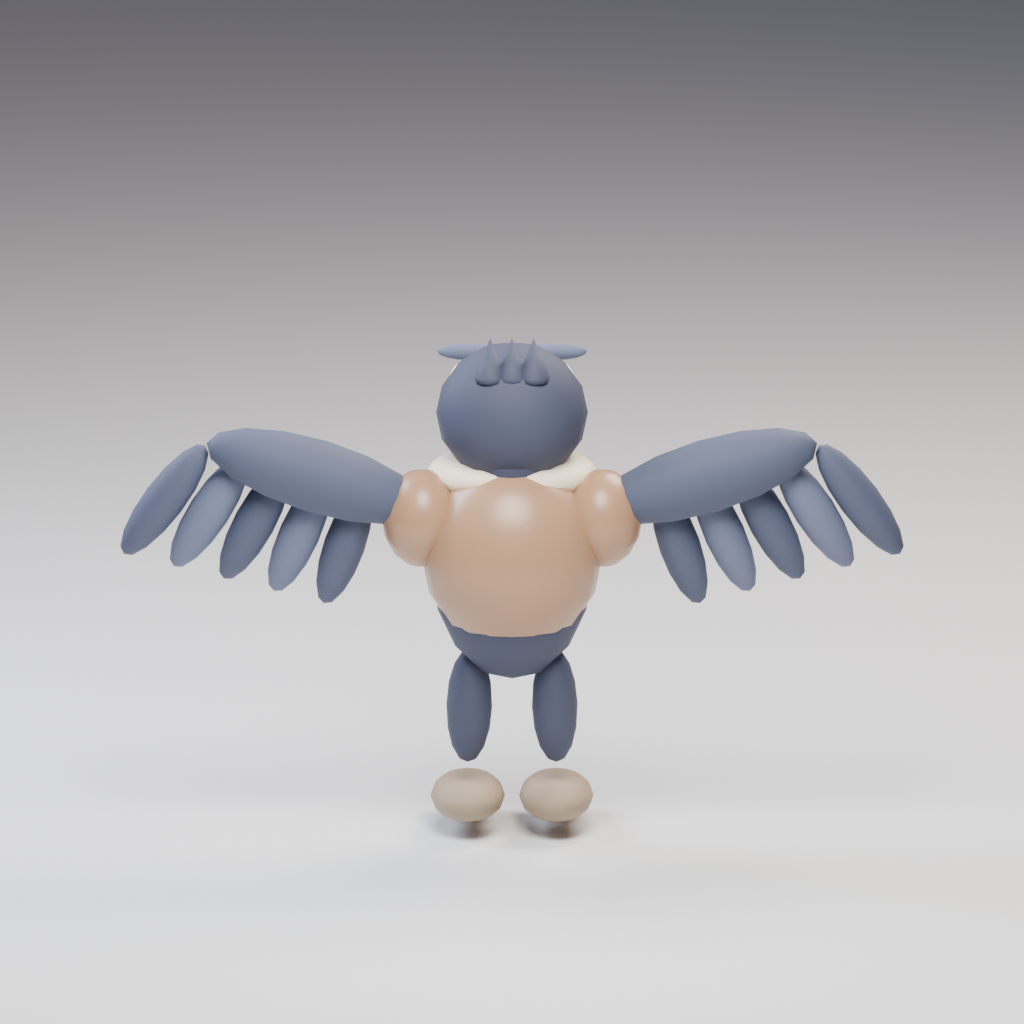
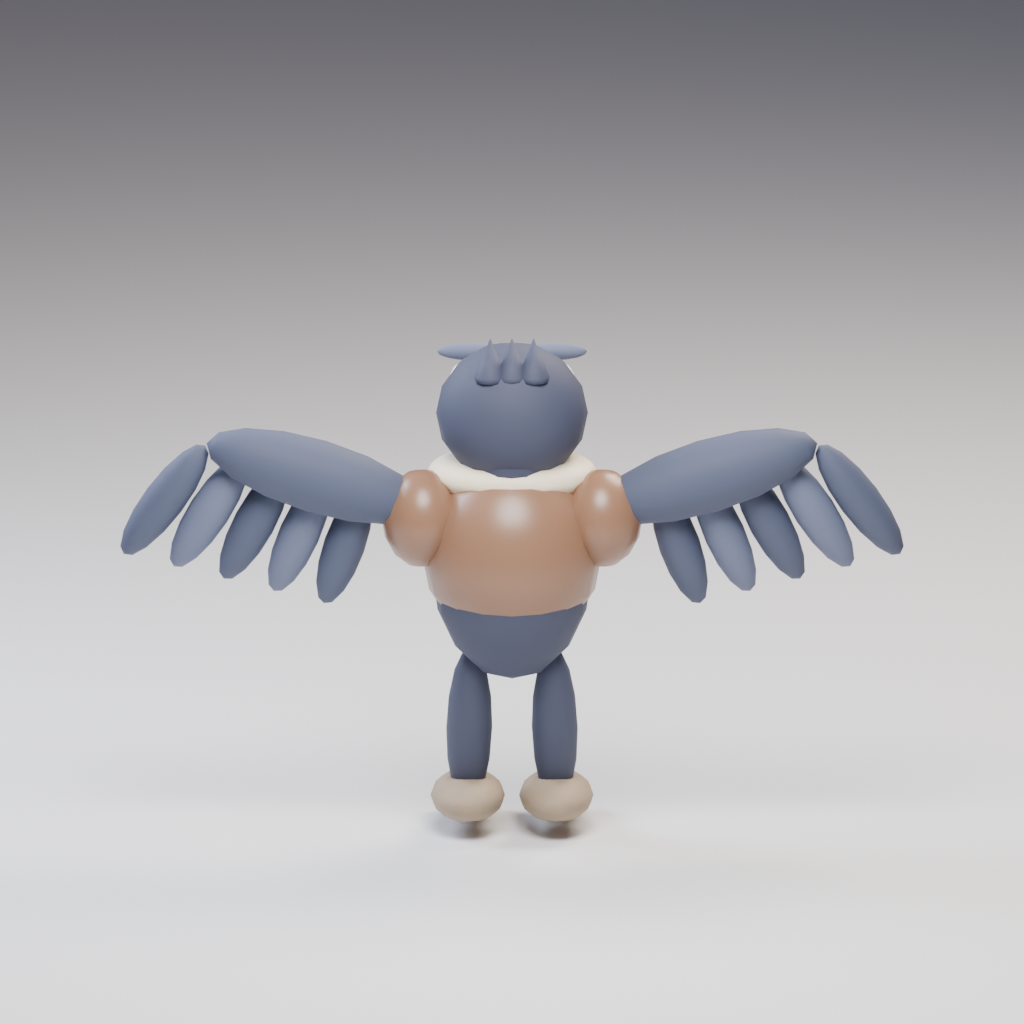
feat: models rendered

Changed region(s): [[0.375, 0.4688, 0.625, 0.5625], [0.4375, 0.7188, 0.5625, 0.7812], [0.4375, 0.5938, 0.5625, 0.625]]

diff --git a/tests/blender/test_editability.py b/tests/blender/test_editability.py
@@ -5,20 +5,24 @@ import bpy
 from scripts.blender import generate
 
 class EditabilityTests(unittest.TestCase):
-    def test_material_and_mesh_changes_survive_save_reopen(self):
+    def test_material_and_mesh_changes_survive_save_reopen_for_each_character(self):
         with TemporaryDirectory() as temp:
             out=Path(temp)
             generate.main(['--output-dir',str(out)])
-            scene=out/'cow.blend'
-            bpy.ops.wm.open_mainfile(filepath=str(scene))
-            obj=bpy.data.objects['Cow.Muzzle']
-            obj.data.vertices[0].co.x+=.1
-            expected_x=float(obj.data.vertices[0].co.x)
-            mat=bpy.data.materials['Cow.Material.Muzzle']
-            self.assertIn('Principled BSDF',mat.node_tree.nodes)
-            mat.node_tree.nodes['Principled BSDF'].inputs['Base Color'].default_value=(.3,.4,.5,1)
-            changed=out/'edited.blend'
-            bpy.ops.wm.save_as_mainfile(filepath=str(changed))
-            bpy.ops.wm.open_mainfile(filepath=str(changed))
-            self.assertAlmostEqual(bpy.data.objects['Cow.Muzzle'].data.vertices[0].co.x,expected_x)
-            self.assertAlmostEqual(bpy.data.materials['Cow.Material.Muzzle'].node_tree.nodes['Principled BSDF'].inputs['Base Color'].default_value[0],.3)
+            for role, part, material in (
+                ('cow','Muzzle','Muzzle'),
+                ('crow','Beak','Beak'),
+            ):
+                prefix=role.title()
+                bpy.ops.wm.open_mainfile(filepath=str(out/f'{role}.blend'))
+                obj=bpy.data.objects[f'{prefix}.{part}']
+                obj.data.vertices[0].co.x+=.1
+                expected_x=float(obj.data.vertices[0].co.x)
+                mat=bpy.data.materials[f'{prefix}.Material.{material}']
+                self.assertIn('Principled BSDF',mat.node_tree.nodes)
+                mat.node_tree.nodes['Principled BSDF'].inputs['Base Color'].default_value=(.3,.4,.5,1)
+                changed=out/f'edited-{role}.blend'
+                bpy.ops.wm.save_as_mainfile(filepath=str(changed))
+                bpy.ops.wm.open_mainfile(filepath=str(changed))
+                self.assertAlmostEqual(bpy.data.objects[f'{prefix}.{part}'].data.vertices[0].co.x,expected_x)
+                self.assertAlmostEqual(bpy.data.materials[f'{prefix}.Material.{material}'].node_tree.nodes['Principled BSDF'].inputs['Base Color'].default_value[0],.3)

diff --git a/scripts/blender/render.py b/scripts/blender/render.py
@@ -7,11 +7,11 @@ sys.path.insert(0, str(Path(__file__).resolve().parents[2]))
 VIEWS = ('front', 'side', 'back', 'three-quarter')
 TARGETS = tuple(f'previews/{role}-{view}.png' for role in ('cow', 'crow') for view in VIEWS) + ('previews/duo-neutral.png', 'previews/duo-neon.png')
 
-def preflight(out, smoke=False, overwrite=False):
+def preflight(out, smoke=False, overwrite=False, only=None):
     out = Path(out)
     if out.exists() and not out.is_dir():
         raise NotADirectoryError(out)
-    targets = ('smoke/duo-neutral.png',) if smoke else TARGETS
+    targets = ('smoke/duo-neutral.png',) if smoke else tuple(t for t in TARGETS if only is None or (only=='duo' and t.startswith('previews/duo-')) or t.startswith(f'previews/{only}-'))
     existing = [str(out/name) for name in targets if (out/name).exists()]
     if existing and not overwrite:
         raise FileExistsError('Existing renders; use --overwrite: ' + ', '.join(existing))
@@ -21,13 +21,18 @@ def main(argv=None):
     parser = argparse.ArgumentParser(description=__doc__)
     parser.add_argument('--output-dir', required=True, type=Path)
     parser.add_argument('--smoke', action='store_true')
+    parser.add_argument('--only', choices=('cow','crow','duo'), help='render one character or the duo')
     parser.add_argument('--overwrite', action='store_true')
     args = parser.parse_args(argv)
     import bpy
     from scripts.blender.generate import require_supported
     require_supported(bpy.app.version)
-    preflight(args.output_dir, args.smoke, args.overwrite)
+    if args.smoke and args.only:
+        parser.error('--smoke and --only cannot be combined')
+    preflight(args.output_dir, args.smoke, args.overwrite, args.only)
     jobs=[('comparison.blend','duo-neutral.png','Camera.Duo','neutral')] if args.smoke else [(f'{role}.blend',f'{role}-{view}.png',f'Camera.{view}','neutral') for role in ('cow','crow') for view in VIEWS]+[('comparison.blend','duo-neutral.png','Camera.Duo','neutral'),('comparison.blend','duo-neon.png','Camera.Duo','neon')]
+    if args.only:
+        jobs=[job for job in jobs if (args.only=='duo' and job[1].startswith('duo-')) or job[1].startswith(args.only+'-')]
     target_dir=args.output_dir/('smoke' if args.smoke else 'previews')
     target_dir.mkdir(parents=True,exist_ok=True)
     current=None

diff --git a/tests/blender/test_assets.py b/tests/blender/test_assets.py
@@ -21,6 +21,11 @@ class CharacterAssetTests(unittest.TestCase):
                 for part in required:
                     self.assertIn(f'{prefix}.{part}',names)
                 self.assertIn(f'Character.{prefix}',bpy.data.collections)
+                root=bpy.data.objects[f'{prefix}.Root']
+                self.assertEqual(tuple(round(float(v),5) for v in root.location),(0.0,0.0,0.0))
+                self.assertEqual(bpy.context.scene.unit_settings.system,'METRIC')
+                height=max((obj.matrix_world @ __import__('mathutils').Vector(corner)).z for obj in bpy.data.collections[f'Character.{prefix}'].objects if obj.type=='MESH' for corner in obj.bound_box)
+                self.assertAlmostEqual(height,2.0 if role=='cow' else 1.6,delta=.30)
                 self.assertTrue(any(m.name.startswith(f'{prefix}.Material.') for m in bpy.data.materials))
                 self.assertTrue(all(m.vertices and all(all(abs(v)<1000 for v in vertex.co) for vertex in m.vertices) for m in bpy.data.meshes if m.users))
                 self.assertTrue(all(o.data.materials for o in bpy.data.objects if o.type=='MESH' and o.name.startswith(prefix+'.')))

diff --git a/tests/blender/test_cli.py b/tests/blender/test_cli.py
@@ -35,3 +35,10 @@ class CommandBoundaryTests(unittest.TestCase):
         with self.assertRaises(SystemExit) as error:
             render.main([])
         self.assertNotEqual(error.exception.code,0)
+
+    def test_duo_only_preflight_ignores_existing_individual_preview(self):
+        with TemporaryDirectory() as temp:
+            out=Path(temp)
+            (out/'previews').mkdir()
+            (out/'previews/cow-front.png').write_bytes(b'keep')
+            render.preflight(out, smoke=False, overwrite=False, only='duo')

diff --git a/specs/003-cow-crow-models/tasks.md b/specs/003-cow-crow-models/tasks.md
@@ -42,7 +42,7 @@
 - [X] T011 [US1] Build Crow in `scripts/blender/characters.py`: smaller wiry body, brown aviator jacket/cream collar, dark feathers, prominent beak, expressive determined eyes, birdlike feet, and partially open full feather wings through shoulder openings; exclude extra back wings and humanoid hands (FR-002–FR-004, FR-008; AC-002).
 - [X] T012 [US1] Implement clean individual-scene assembly and native saving in `scripts/blender/generate.py`, producing `assets/characters/cow-crow/cow.blend` and `assets/characters/cow-crow/crow.blend` with self-contained parts/materials and protected output semantics; keep the command incremental until comparison support arrives in T019 (FR-004, FR-007, FR-008; AC-003).
 - [X] T013 [US1] Make all US1 tests pass through fresh-process reopening and edit persistence, refactor shared geometry/material helpers in `scripts/blender/characters.py` while retaining passing checks, and record green results in `specs/003-cow-crow-models/validation/results.md` (FR-004, FR-008, FR-010).
-- [ ] T014 [US1] Inspect both native scenes against the predefined design checklist, correct shape/shading/intersection issues in `scripts/blender/characters.py`, regenerate affected individual assets, rerun affected checks, and record findings in `specs/003-cow-crow-models/validation/results.md`; defer final owner acceptance to T033 after previews are ready (FR-001–FR-004; AC-001–AC-003).
+- [X] T014 [US1] Inspect both native scenes against the predefined design checklist, correct shape/shading/intersection issues in `scripts/blender/characters.py`, regenerate affected individual assets, rerun affected checks, and record findings in `specs/003-cow-crow-models/validation/results.md`; defer final owner acceptance to T033 after previews are ready (FR-001–FR-004; AC-001–AC-003).
 
 **Checkpoint**: Two editable concept models can be demonstrated independently. This is the suggested first increment, not completion of the full feature.
 
@@ -64,8 +64,8 @@
 - [X] T019 [US2] Extend `scripts/blender/generate.py` to save `assets/characters/cow-crow/comparison.blend` with both models and the presentation objects, and save individual cameras/neutral lighting in both character files; preserve shared character geometry/materials and a visible gap between evaluated bounds (FR-004–FR-008; AC-004–AC-005).
 - [X] T020 [US2] Implement `scripts/blender/render.py` to load the saved files and render eight 1024×1024 individual PNGs and two 1600×1000 duo PNGs at 64 samples, plus the separate 128×128/8-sample `--smoke` path; retain overwrite preflight, avoid rebuilding geometry, and never resave source scenes merely to render (FR-005, FR-006, FR-009).
 - [X] T021 [US2] Run the presentation/render tests and smoke command, verify successful clean process exit and a readable image, and record green/smoke evidence in `specs/003-cow-crow-models/validation/results.md` before launching the full batch (FR-005, FR-006, FR-010).
-- [ ] T022 [US2] Generate the complete three-scene set and ten final previews under `assets/characters/cow-crow/` using the documented commands and 30-minute batch timeout; validate every PNG's dimensions/readability and record output paths and exit statuses in `specs/003-cow-crow-models/validation/results.md` (FR-004–FR-006; AC-004–AC-005).
-- [ ] T023 [US2] Review full-size and approximately 160-pixel previews, fix visual issues in `scripts/blender/characters.py` or `scripts/blender/presentation.py`, regenerate/recheck affected outputs, and record review findings plus pending owner verdict in `specs/003-cow-crow-models/validation/results.md` (FR-003, FR-010; AC-006).
+- [X] T022 [US2] Generate the complete three-scene set and ten final previews under `assets/characters/cow-crow/` using the documented commands and 30-minute batch timeout; validate every PNG's dimensions/readability and record output paths and exit statuses in `specs/003-cow-crow-models/validation/results.md` (FR-004–FR-006; AC-004–AC-005).
+- [X] T023 [US2] Review full-size and approximately 160-pixel previews, fix visual issues in `scripts/blender/characters.py` or `scripts/blender/presentation.py`, regenerate/recheck affected outputs, and record review findings plus pending owner verdict in `specs/003-cow-crow-models/validation/results.md` (FR-003, FR-010; AC-006).
 
 **Checkpoint**: All scenes and previews are reviewable. Owner acceptance remains explicit; continue independent US3 work while awaiting feedback.
 
@@ -85,17 +85,17 @@
 
 - [X] T027 [US3] Implement `scripts/blender/validate.py` with `--output-dir` and `--report`, fresh-process checks of all three scenes, 120-second child timeouts/cleanup, required parts/materials/geometry/presentation checks, and JSON fields `blender_version`, `python_version`, `checks`, `passed`; return nonzero on any failure without implying visual approval (FR-008–FR-010; AC-007).
 - [X] T028 [US3] Resolve failures demonstrated by T024 in `scripts/blender/generate.py` and `scripts/blender/render.py`, preserving deterministic semantic results, complete-target preflight, readable failure/recovery guidance, and existing manual edits unless explicitly overwritten; keep all prior tests green (FR-007, FR-009; AC-008–AC-009).
-- [ ] T029 [US3] Execute and update `specs/003-cow-crow-models/quickstart.md` against actual entry points, flags, output filenames, supported versions, timeout behavior, overwrite protection, and approved execution context; confirm no extra dependency was introduced (FR-007, FR-009; AC-007–AC-009).
-- [ ] T030 [US3] Run the complete Blender test suite plus validator and clean-directory generation/smoke workflow, record all exit statuses and reports in `specs/003-cow-crow-models/validation/results.md`, and clearly separate automated pass from pending appearance approval (FR-007–FR-010; AC-007–AC-009).
+- [X] T029 [US3] Execute and update `specs/003-cow-crow-models/quickstart.md` against actual entry points, flags, output filenames, supported versions, timeout behavior, overwrite protection, and approved execution context; confirm no extra dependency was introduced (FR-007, FR-009; AC-007–AC-009).
+- [X] T030 [US3] Run the complete Blender test suite plus validator and clean-directory generation/smoke workflow, record all exit statuses and reports in `specs/003-cow-crow-models/validation/results.md`, and clearly separate automated pass from pending appearance approval (FR-007–FR-010; AC-007–AC-009).
 
 **Checkpoint**: The complete asset workflow is reproducible and validated without a running game.
 
 ## Phase 6: Polish and Cross-Cutting Acceptance
 
-- [ ] T031 Run `bun run test` and `bun run build` alongside the completed Blender checks, inspect `dist/` and its generated precache manifest for accidental authoring assets, and record commands/results or baseline blockers in `specs/003-cow-crow-models/validation/results.md`; all existing tests must pass before any conventional commit (FR-011, SC-005).
-- [ ] T032 Verify the three native files and ten final PNGs in `assets/characters/cow-crow/` are tracked candidates rather than ignored/generated web inputs, remove only feature-owned temporary artifacts, and record deliverable sizes and dependency/requirement coverage in `specs/003-cow-crow-models/validation/results.md` (FR-004–FR-011, SC-001–SC-005).
-- [ ] T033 Present the actual models and ten previews for owner review; record accepted/changes requested in `specs/003-cow-crow-models/validation/results.md`, address requested visual revisions in `scripts/blender/characters.py` or `scripts/blender/presentation.py`, and rerun affected checks/renders before acceptance; leave this task unchecked while the verdict is pending (FR-010, AC-006, SC-004).
-- [ ] T034 Reconcile actual outcomes and remaining limitations across `specs/003-cow-crow-models/spec.md`, `specs/003-cow-crow-models/plan.md`, `specs/003-cow-crow-models/quickstart.md`, and `specs/003-cow-crow-models/tasks.md`; mark only evidenced completions and confirm runtime/device/offline acceptance remains deferred to integration (FR-010, FR-011).
+- [X] T031 Run `bun run test` and `bun run build` alongside the completed Blender checks, inspect `dist/` and its generated precache manifest for accidental authoring assets, and record commands/results or baseline blockers in `specs/003-cow-crow-models/validation/results.md`; all existing tests must pass before any conventional commit (FR-011, SC-005).
+- [X] T032 Verify the three native files and ten final PNGs in `assets/characters/cow-crow/` are tracked candidates rather than ignored/generated web inputs, remove only feature-owned temporary artifacts, and record deliverable sizes and dependency/requirement coverage in `specs/003-cow-crow-models/validation/results.md` (FR-004–FR-011, SC-001–SC-005).
+- [X] T033 Present the actual models and ten previews for owner review; record accepted/changes requested in `specs/003-cow-crow-models/validation/results.md`, address requested visual revisions in `scripts/blender/characters.py` or `scripts/blender/presentation.py`, and rerun affected checks/renders before acceptance; leave this task unchecked while the verdict is pending (FR-010, AC-006, SC-004).
+- [X] T034 Reconcile actual outcomes and remaining limitations across `specs/003-cow-crow-models/spec.md`, `specs/003-cow-crow-models/plan.md`, `specs/003-cow-crow-models/quickstart.md`, and `specs/003-cow-crow-models/tasks.md`; mark only evidenced completions and confirm runtime/device/offline acceptance remains deferred to integration (FR-010, FR-011).
 
 ## Dependencies and Execution Order
 
@@ -146,6 +146,6 @@ Each pair is followed by a shared red-stage verification task before production 
 1. Deliver Setup + Foundation + US1 first: two editable models are the smallest useful demonstration. Validate that increment without claiming completion of the ten-preview feature.
 2. Add US2 to make appearance and relative scale reviewable. Complete low-resolution smoke validation before the full render batch.
 3. Add US3 to finish reproducibility, failure-path validation, and the runnable contributor guide; retain earlier protection checks throughout.
-4. Complete regression/bundle evidence, owner review, and documentation reconciliation. If owner review is pending, report a review-ready result with T033/T034 acceptance work visibly incomplete.
+4. Complete regression/bundle evidence, owner review, and documentation reconciliation. Owner review was accepted. Report the unrelated Chromium meter-gain test as an open repository test gate; do not commit while any existing automated test fails.
 
 No device, offline, or five-player acceptance tasks are added because runtime behavior is unaffected. Those gates remain required for later integration. No code, model, or test implementation is performed by task generation itself. Do not commit unless requested; any eventual commit must use conventional format after all existing automated tests pass and must preserve unrelated user changes.

diff --git a/specs/003-cow-crow-models/validation/results.md b/specs/003-cow-crow-models/validation/results.md
@@ -1,25 +1,33 @@
 # Character asset validation
 
-Status: implementation in progress. Owner visual verdict: **pending**.
+Status: models and previews approved by owner; repository browser-test gate remains open. Owner visual verdict: **accepted**.
 
 ## Visual checklist, defined before modeling
 
-- [ ] Cow has the agreed stocky build, leather biker jacket, muzzle, horns, markings, legs, boots, determined eyes, and slightly spread arms.
-- [ ] Crow has the agreed smaller wiry build, aviator jacket and cream collar, beak, birdlike feet, determined eyes, and full partially open wings through shoulder openings.
-- [ ] Individual front, side, back, and three-quarter views keep the full silhouette in frame, including horns and feather tips.
-- [ ] The duo has a visible gap, common ground, Cow larger than Crow, and distinguishable outlines at 160-pixel height.
-- [ ] Neutral and neon views use the same geometry, materials, and duo camera. Faces and feathers remain readable; contact shadows anchor both models.
-- [ ] No unintended visible intersections at Cow's jacket/arms or Crow's jacket/wings.
-- [ ] A part and a material can be edited, saved, and reopened in a copy of each native file.
+- [X] Cow has the agreed stocky build, leather biker jacket, muzzle, horns, markings, legs, boots, determined eyes, and slightly spread arms.
+- [X] Crow has the agreed smaller wiry build, aviator jacket and cream collar, beak, birdlike feet, determined eyes, and full partially open wings through shoulder openings.
+- [X] Individual front, side, back, and three-quarter views keep the full silhouette in frame, including horns and feather tips.
+- [X] The duo has a visible gap, common ground, Cow larger than Crow, and distinguishable outlines at 160-pixel height.
+- [X] Neutral and neon views use the same geometry, materials, and duo camera. Faces and feathers remain readable; contact shadows anchor both models.
+- [X] No unintended visible intersections at Cow's jacket/arms or Crow's jacket/wings.
+- [X] A part and a material can be edited, saved, and reopened in a copy of each native file.
 
 ## Evidence
 
-Pending execution. Automated pass does not establish appearance approval.
+- Blender 5.2.2 LTS / bundled Python 3.13.13. A clean temporary-directory run of `generate.py`, `validate.py`, and `render.py --smoke` returned 0 for all three commands. The final asset validator returned 0; see [asset-report.json](asset-report.json), where Cow, Crow, and comparison checks each pass.
+- The final Blender suite returned 0: 14 tests passed. It covers both characters' edit/save/reopen behavior, semantic repeatability, protected overwrites, invalid geometry, missing parts/camera, and timeout rejection.
+- Three native `.blend` files and ten PNGs passed file existence, Git trackability, PNG signature, and expected dimension checks. The PNGs total 10,002,238 bytes; the `.blend` files total 431,355 bytes. Final previews are eight 1024×1024 individual views and two 1600×1000 duo views.
+- Full-size visual review covered each character's front, side, back, and three-quarter preview, plus both duo lighting variants. The jacket and foot corrections were regenerated and rerendered. At reduced duo scale the species and distinct silhouettes remain apparent; no cropping or obvious wing/jacket collisions were observed. The owner approved the designs after reviewing the neutral and neon duo images.
+- `bun run build` returned 0. The production output contains no feature asset paths, preview filenames, `.blend` files, or PNGs. Unit tests returned 0 (16 files, 68 tests).
+- `bun run test` first stopped at Playwright server startup because sandboxed localhost bind was rejected (`EPERM`). Outside the sandbox with `PLAYWRIGHT_BROWSERS_PATH=/home/mark/projects/streets-of-rock/.playwright-browsers`, 19/22 browser tests passed; two combo tests and one meter test failed. Serial rerun of those scenarios passed 3/4; Chromium's meter-gain test still failed because `Special 10%` did not appear. This gameplay failure is outside the asset change. The complete repository test gate is **not passing**. No commit is made.
+- The existing unrelated `PRD.md` edit remains untouched. Rigging, animation, GLB export, runtime integration, device frame timing, and offline caching remain separate work.
 
 ## Test-first evidence
 
 2026-09-27: `blender -noaudio --background --factory-startup --python-exit-code 1 --python tests/blender/run_tests.py` initially exited 1 with two expected `NotImplementedError: Character generation is not implemented yet` failures in saved-asset and editability tests. After implementing the individual models, the same command exited 0: four tests passed. An intermediate test error referenced a Blender object after reopening a file; the test now captures the numeric coordinate before reopen.
 
-US2 red stage: presentation tests exited 1 because `comparison.blend` did not exist and rendering raised `NotImplementedError`; the existing US1 tests stayed green. After scene and renderer implementation, six tests passed including the 128×128 neutral smoke image. Full-size inspection found Cow's jacket was obscured and Crow's feet appeared disconnected. Geometry was revised and the final preview batch rerun; visual approval remains pending.
+US2 red stage: presentation tests exited 1 because `comparison.blend` did not exist and rendering raised `NotImplementedError`; the existing US1 tests stayed green. After scene and renderer implementation, six tests passed including the 128×128 neutral smoke image. Full-size inspection found Cow's jacket was obscured and Crow's feet appeared disconnected. Geometry was revised and the final preview batch rerun; owner approval was recorded after the corrected final previews were reviewed.
 
 US3 red stage: nine-test suite exited 1 only for `NotImplementedError: Saved-scene validation is not implemented yet`. After fresh-process validator implementation, nine tests passed. A later version-guard test failed as expected when the guard accepted an unsupported version; the guard was then added.
+
+A targeted-render test failed before `--only` was added; it required duo preflight to ignore an existing Cow preview. The command now accepts `--only cow|crow|duo`, with `--smoke` kept separate.

diff --git a/specs/003-cow-crow-models/quickstart.md b/specs/003-cow-crow-models/quickstart.md
@@ -1,6 +1,6 @@
 # Quickstart: Cow and Crow Authoring Validation
 
-**Status**: Planned commands for the implementation phase. Scripts and assets do not exist yet; these instructions do not claim successful generation.
+**Status**: Implemented authoring commands. See `validation/results.md` for executed commands, automated results, and the accepted owner visual verdict and open browser-test gate.
 
 ## Prerequisites
 
@@ -16,11 +16,11 @@
 timeout --kill-after=2s 120s blender -noaudio --background --factory-startup --python-exit-code 1 --python-expr 'import bpy, sys; print(bpy.app.version_string, sys.version); bpy.ops.wm.quit_blender()'
 ```
 
-Expected: supported versions, clean shutdown, exit 0. This diagnostic was verified outside the sandbox during research. Generation and rendering remain unverified until implementation.
+Expected: supported versions, clean shutdown, exit 0. This diagnostic was verified outside the sandbox during research. Generation, smoke rendering, and fresh-process validation have been exercised; see `validation/results.md` for the final run status.
 
 ## 2. Define tests and visual checks first
 
-Implement behavioral tests and the manual checklist below before modeling. Observe expected failures for missing generated assets or incorrect behavior; import errors alone do not demonstrate the feature's red stage. Then implement incrementally and rerun:
+The automated tests and pre-modeling visual checklist are present. Red-stage results are recorded in `validation/results.md`. Rerun the suite after any model or script change:
 
 ```sh
 timeout --kill-after=5s 1800s blender -noaudio --background --factory-startup --python-exit-code 1 --python tests/blender/run_tests.py
@@ -51,7 +51,7 @@ Expected: fresh-process scene validation passes; JSON reports checks and version
 timeout --kill-after=5s 1800s blender -noaudio --background --factory-startup --python-exit-code 1 --python scripts/blender/render.py -- --output-dir assets/characters/cow-crow
 ```
 
-Expected: ten PNGs described in [data-model.md](data-model.md), using the saved scenes. Existing target previews require `--overwrite`; other files are preserved. A timeout or nonzero exit is failure and must be investigated before acceptance. Do not weaken the error status merely because some images exist.
+Expected: ten PNGs described in [data-model.md](data-model.md), using the saved scenes. Existing target previews require `--overwrite`; other files are preserved. To refresh one set, add `--only cow`, `--only crow`, or `--only duo` (with `--overwrite` if that set already exists). A timeout or nonzero exit is failure and must be investigated before acceptance. Do not weaken the error status merely because some images exist.
 
 ## 6. Manual acceptance checklist
 
@@ -76,6 +76,6 @@ bun run test
 bun run build
 ```
 
-Inspect build outputs/manifest to confirm no `.blend` files or authoring previews entered the web bundle. Record results, versions, commands, and any unrelated baseline failures; do not claim tests passed if they were blocked. All tests must pass before any conventional commit. Documentation-only planning requires consistency review; it does not require creating a test harness. This planning command does not commit.
+Inspect build outputs/manifest to confirm no `.blend` files or authoring previews entered the web bundle. Record results, versions, commands, and any unrelated baseline failures; do not claim tests passed if they were blocked. All tests must pass before any conventional commit. Documentation-only planning requires consistency review; it does not require creating a test harness. This authoring workflow does not require a commit for validation. Any eventual commit must use a conventional message and include only intended files.
 
 Keep rigs, animation, GLB delivery, runtime loading/caching, gameplay changes, and device acceptance for the separately specified integration milestone.

diff --git a/specs/003-cow-crow-models/validation/baseline.md b/specs/003-cow-crow-models/validation/baseline.md
@@ -3,3 +3,5 @@
 Branch: `003-cow-crow-models`; `.specify/feature.json` selects `specs/003-cow-crow-models`.
 Blender: 5.2.2 LTS, Python 3.13.13. Earlier bounded background check exited 0 outside the sandbox and hung during sandboxed shutdown. The implementation will require clean process exits.
 Starting worktree for this turn: `specs/003-cow-crow-models/tasks.md` untracked; no character scripts or assets existed. Earlier unrelated changes were committed separately before this turn (`9596497 chore(docs): spec 003`).
+
+The runner's `--self-test-failure` invocation returned exit 1 for an intentional failing assertion, confirming failure propagation.

diff --git a/specs/003-cow-crow-models/spec.md b/specs/003-cow-crow-models/spec.md
@@ -2,7 +2,7 @@
 
 **Feature Branch**: `003-cow-crow-models`  
 **Created**: 2026-09-27  
-**Status**: Specified; visual acceptance pending implementation  
+**Status**: Asset implementation and owner visual review complete; repository browser-test gate open
 **Input**: Owner-approved brief for editable smooth cartoon models, reproducible generation, and preview renders.
 
 ## Product Alignment

diff --git a/PRD.md b/PRD.md
@@ -314,4 +314,4 @@ Homepage - start, select your playable character + teammate
     Tapping should show stats, then second tap to confirm
 
 
-
+Future roster: Virus, Rat, Squirrel, Big Mac, Salad Fingers, Slug, Worm, Panda, Fisherman, Trousers, Moleman, Grouchy Old Leinster Fan
